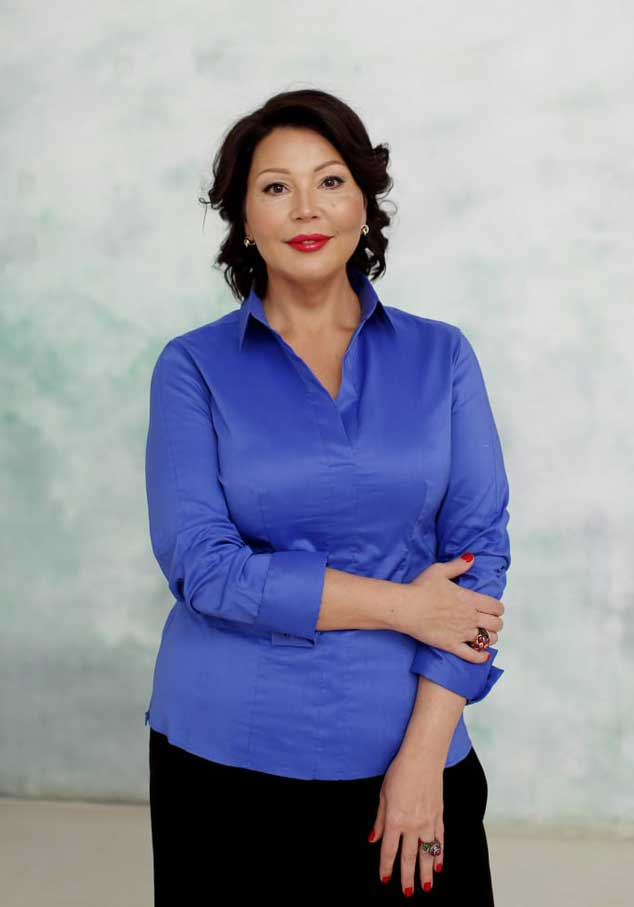
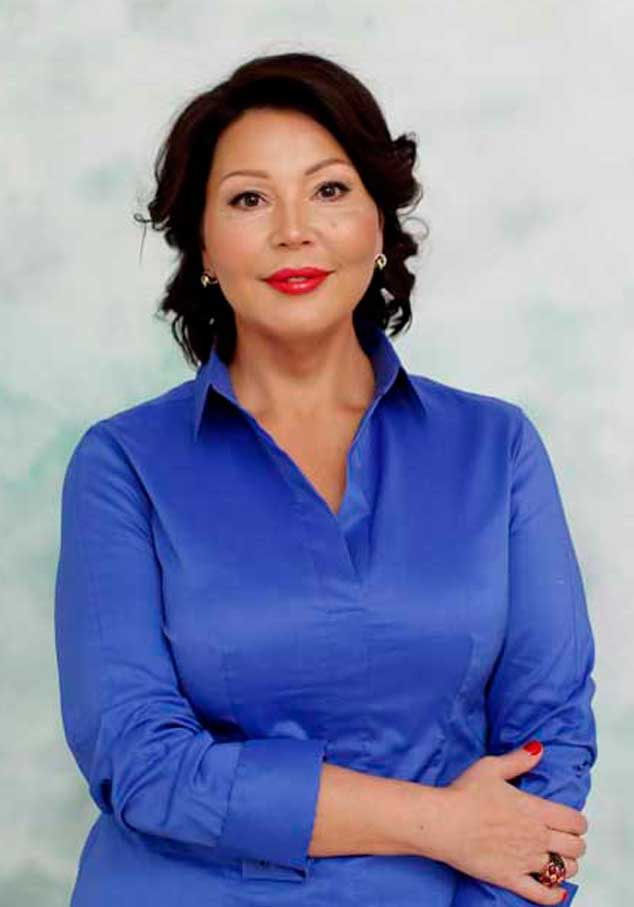
фото

diff --git a/index.html b/index.html
@@ -5,7 +5,7 @@
 	<meta name="viewport" content="width=device-width, initial-scale=1.0">
 	<title>Родительский форум</title>
 	<link href="https://fonts.googleapis.com/css2?family=Roboto&display=swap" rel="stylesheet">
-	<link rel="stylesheet" href="style.css?v-1">
+	<link rel="stylesheet" href="style.css?v-1/8">
 </head>
 <body>
 	<header>

diff --git a/style.css b/style.css
@@ -359,6 +359,11 @@ header .logo{
 	margin-bottom: 15px;
 	text-align: justify;
 }
+.popup-info p img{
+	width: 100%;
+    margin-top: 10px;
+    border-radius: 8px;
+}
 .popup-info h2{
 	text-align:left;
 	font-size: 1.2em;
